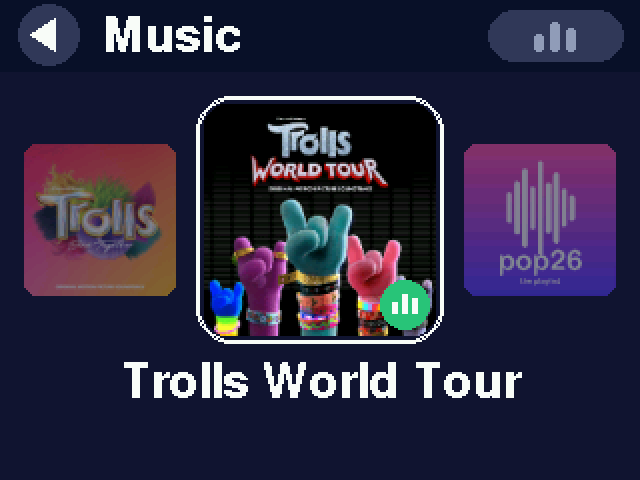
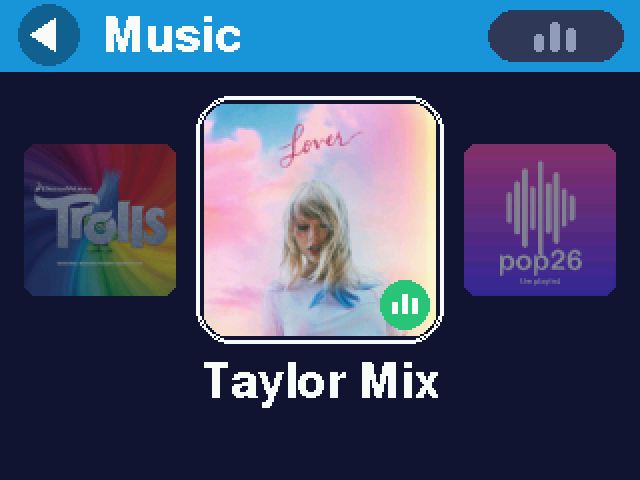
Keep listening's button flies up to become the now-playing button, with dancing bars; shelf-colored top bar on albums

diff --git a/CHANGELOG.md b/CHANGELOG.md
@@ -12,8 +12,12 @@ e.g. `0.3.0+6.cb61af8`.
   corner. With nothing loaded, they sit in the middle of the screen.
 - The Podcasts shelf is called "Pods", so the name fits its card.
 - The now-playing button in the top bar isn't on Home any more (the Keep listening card
-  does that job). Leaving Home for a shelf, the card's cover shrinks up into the top
-  bar's corner and becomes the button.
+  does that job). Leaving Home for a shelf, the card's round green button moves up into
+  the top bar's corner and becomes it.
+- Keep listening's round button has the same dancing bars as the now-playing button
+  while something plays (a play triangle when paused).
+- The top bar on a shelf's albums is in the shelf's own color, as on Home (Music blue,
+  Pods purple, Books orange).
 - Keep listening's title scrolls like a marquee when it's too long to fit.
 - The Home button does nothing on Home (it used to repaint the screen).
 

diff --git a/README.md b/README.md
@@ -26,7 +26,8 @@ everything on it chosen by a grown-up.
 - **The top bar** has back on the left, the shelf's name, and on the right the
   now-playing button: its bars bounce on green while something plays; tap it for the
   player. Home doesn't have it (Keep listening does that job): leaving Home for a shelf,
-  the Keep listening cover flies up into the corner and becomes the button.
+  Keep listening's green button flies up into the corner and becomes it. On
+  a shelf's albums the bar is in the shelf's color.
 - **Snackbars** at the bottom say when the battery is low, it's charging, or headphones
   connect. When headphones disconnect, the sound pauses rather than carrying on out
   loud.
